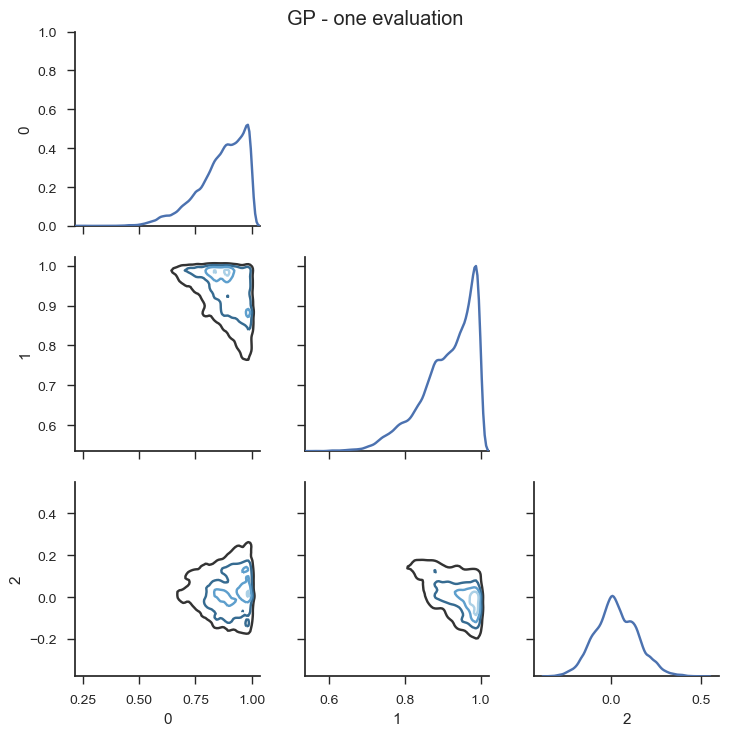
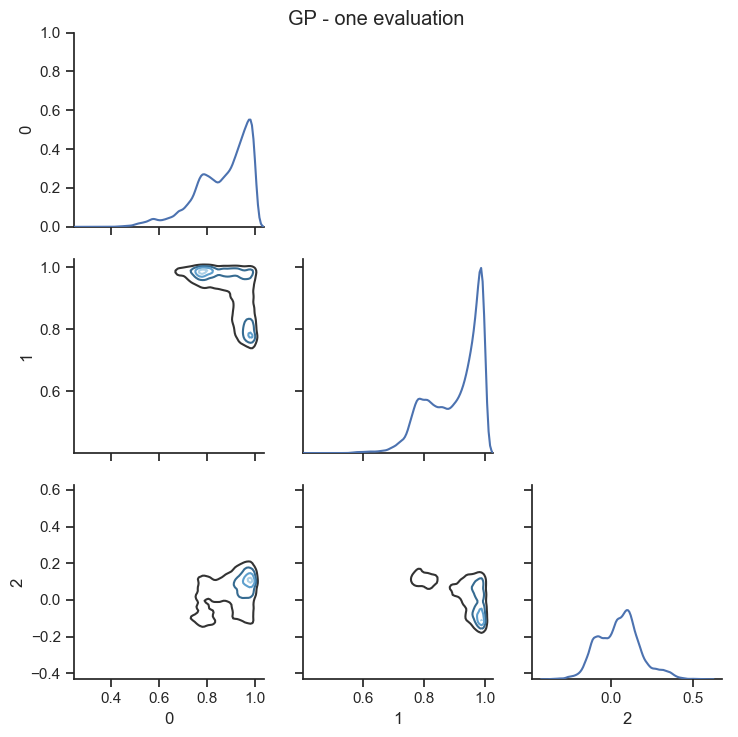
Added in marginal approximation for both MCMC_A.py and MCMC_CGSSZ.py  - updated GaussianProcess to make this possible  - updated README.md with results run times  - updated all output/*.png

diff --git a/GaussianProcess.py b/GaussianProcess.py
@@ -90,8 +90,9 @@ class GaussianProcess:
 
     def GP_at_points(self, points, num_evals=1):
         """Returns a Gaussian Process evalued at the grid points"""
-        val = np.random.multivariate_normal(self.mean(points), self.kernel(points, points),
-                                             num_evals)
+        mean = self.mean(points)
+        kernel = self.kernel(points, points)
+        val = np.random.multivariate_normal(mean, kernel, num_evals)
         if num_evals > 1:
             val = val.T
         return val
@@ -149,13 +150,22 @@ class GaussianProcess:
         plt.plot(X, Y)
         plt.show()
     
-    def GP_eval(self, x):
+    def GP_eval(self, x, save=True, num_evals=1):
+        """
+        Evaluates the GP at the point x and saves this point to the list of generated points.
+        If save=False and num_evals>1 then returns num_evals of GP at x and doesn't save any of them.
+        These options are used for the marginal approximation.
+        """
         #first check lengeth of array X and Y and expand if necessary
         self.check_mem()
         
         #make sure shape of x is (1, dim)
         if len(x.shape) == 1:
             x = x.reshape(1, self.dim)
+        
+        #Haven't removed save=True variable to make developer explicitly aware of this behaviour
+        if save is True and num_evals is not 1:
+            raise ValueError('When save=True then num_evals must be 1.')
         
         """First find closest 3*d points to x
         Code is good in 1d but bad in n dim
@@ -177,11 +187,11 @@ class GaussianProcess:
         elif dist[ind_min_dist] < self.tol:
             data_new = self.Y[ind_min_dist]
         else:
-            data_new = self.GP_bridge(x, points, data)
-            self.add_data(ind, x, data_new)
-
+            data_new = self.GP_bridge(x, points, data, size=num_evals)
+            if save is True:
+                self.add_data(ind, x, data_new)
         return data_new
-    
+      
     def find_closest(self, x):
         """Finds closest 3*dim points to x in each signed direction
         Returns: ind, points
@@ -279,15 +289,13 @@ class GaussianProcess:
             self.X = np.concatenate((self.X, np.zeros(self.X.shape, dtype=self.X.dtype)))
             self.Y = np.concatenate((self.Y, np.zeros(self.Y.shape, dtype=self.Y.dtype)))
     
-    def GP_bridge(self, x, points, data):
+    def GP_bridge(self, x, points, data, size=1):
         """Uses a small Gaussian process to evaluate the GP at x given it at points
         
         x: point to calculate the GP at
         Points: np array (x0, x1, ...)
-        Data: np array (f(x0), f(x1), ...)"""
-        
-#        if len(x.shape) == 1:
-#            x = x[np.newaxis, :]
+        Data: np array (f(x0), f(x1), ...)
+        size: the number of evaluations to return"""
         
         mean, ker = self.create_matern(data = data, points = points)
 
@@ -296,9 +304,11 @@ class GaussianProcess:
         all_pts = np.concatenate((x, points))
         m = np.squeeze(mean(all_pts))
         k = ker(all_pts, all_pts)
-        val = np.random.multivariate_normal(m, k, check_valid='ignore')
-        return val[0]
-
+        val = np.random.multivariate_normal(m, k, size, check_valid='ignore')
+        if size == 1:
+            return val[0,0]
+        else:
+            return val[:,0]
 
     @staticmethod
     def create_uniform_grid(min_range, max_range, n, dim=1):

diff --git a/MCMC_A.py b/MCMC_A.py
@@ -49,7 +49,7 @@ sigma = np.sqrt(10 ** -2) #size of the noise in observations
 dim_U = 3
 length = 10 ** 5 #length of MCMC
 burn_time = 1000
-num_design_points = 17 #in each dimension
+num_design_points = 10 #in each dimension
 speed_random_walk = 0.1
 #End points of n-dim lattice for the design points
 min_range = -1
@@ -59,7 +59,7 @@ num_obs = 20
 x = np.arange(1, num_obs+1)/(num_obs + 1)
 
 #N: number basis functions for solving PDE
-N = 2 ** 7
+N = 2 ** 10
 
 #Generate data
 #The truth u_dagger lives in [-1,1]
@@ -85,26 +85,34 @@ flag_run_MCMC = 1
 if flag_run_MCMC:
     x0 = np.zeros(dim_U)
     print('Parameter is:', u_dagger)
-    print('Solution to PDE at', x, 'for true parameter is:')
-    print(G_u_dagger)
-    print('Observation of solution to PDE at', x, 'is:')
-    print(y)
+    print('Solution to PDE at', x, 'for true parameter is: \n', G_u_dagger)
+    print('Observation of solution to PDE at', x, 'is: \n', y)
     
-    if 1:
+    if 0:
         density_post = lambda u: np.exp(-phi(u))*density_prior(u)
         name = 'True posterior'
         short_name = 'true'
         run_true = MCMC_helper(density_post, name, short_name)
         save_data(run_true, short_name)
     
-    if 1:
+    if 0:
         density_post = lambda u: np.exp(-GP.mean(u))*density_prior(u)
-        name = 'GP as mean - ie marginal approximation'
+        name = 'GP as mean'
         short_name = 'mean'
         run_mean = MCMC_helper(density_post, name, short_name)
         save_data(run_mean, short_name)
-        
+    
     if 1:
+        #estimate each point of GP as expectation of 100 GP evaluations 
+        #(could increase num_expect affecting runtime)
+        num_expect=100
+        density_post = lambda u: np.sum(np.exp(-GP.GP_eval(u,save=False,num_evals=num_expect))*density_prior(u))/num_expect
+        name = 'GP as marginal approximation'
+        short_name = 'marginal'
+        run_marg = MCMC_helper(density_post, name, short_name)
+        save_data(run_marg, short_name)
+        
+    if 0:
         density_post = lambda u: np.exp(-GP.GP_eval(u))*density_prior(u)
         name = 'GP - one evaluation'
         short_name = 'GP'

diff --git a/MCMC_CGSSZ.py b/MCMC_CGSSZ.py
@@ -44,13 +44,13 @@ sigma = np.sqrt(10 ** -3) #size of the noise in observations
 dim_k = 3
 length = 10 ** 5 #length of MCMC
 burn_time = 3000
-num_design_points = 20 #in each dimension
+num_design_points = 10 #in each dimension
 speed_random_walk = 0.05
 num_obs = 9
 #num_obs evenly spaced points in (0,1)
 x = np.arange(1, num_obs + 1)/(num_obs + 1)
 #N: number basis functions for solving PDE
-N = 2 ** 7
+N = 2 ** 10
 
 #Generate data
 #The truth k_dagger
@@ -94,10 +94,20 @@ if flag_run_MCMC:
     
     if 1:
         density_post = lambda u: np.exp(-GP.mean(u))*density_prior(u)
-        name = 'GP as mean - ie marginal approximation'
+        name = 'GP as mean'
         short_name = 'mean'
         run_mean = MCMC_helper(density_post, name, short_name)
         save_data(run_mean, short_name)
+        
+    if 1:
+        #estimate each point of GP as expectation of 100 GP evaluations 
+        #(could increase num_expect affecting runtime)
+        num_expect=100
+        density_post = lambda u: np.sum(np.exp(-GP.GP_eval(u,save=False,num_evals=num_expect))*density_prior(u))/num_expect
+        name = 'GP as marginal approximation'
+        short_name = 'marginal'
+        run_marg = MCMC_helper(density_post, name, short_name)
+        save_data(run_marg, short_name)
         
     if 1:
         density_post = lambda u: np.exp(-GP.GP_eval(u))*density_prior(u)

diff --git a/MCMC.py b/MCMC.py
@@ -65,8 +65,7 @@ def runMCMC(dens, length, speed_random_walk, x0, x, N, name, short_name,
     print('Mean is:', mean)
     print('We accepted this number of times:', accepts)
     sol_at_mean = PDE.solve_at_x(mean, N, x)
-    print('Solution to PDE at mean is:')
-    print(sol_at_mean)
+    print('Solution to PDE at mean is: \n', sol_at_mean)
     
     print('Average error from true values is:', np.sqrt(np.sum((sol_at_mean - sol_true)**2))/len(x))
     print('Average error from observed values is:', np.sqrt(np.sum((sol_at_mean - sol_obs)**2))/len(x))

diff --git a/README.md b/README.md
@@ -1,22 +1,46 @@
-This code contains an example of using a Gaussian Process Approximation in Bayesian inverse problems.
-In particular we use the Gaussian Process Emulator during a simple MCMC estimating the solution to a PDE.
+This code contains an example of using a Gaussian Process Approximation in Bayesian inverse problems.  In particular we use the Gaussian Process Emulator during a simple MCMC estimating the solution to a PDE.
 
 We look at two different examples.
 
 The first example, `MCMC_A.py` is from section 5 of this [paper](http://dx.doi.org/10.1090/mcom/3244) (also available on [arXiv](https://arxiv.org/abs/1603.02004)).
 
-The second example, `MCMC_CGSSZ.py` is using applying a Gaussian Process Approximator to the problem from section 5 of this [paper](https://doi.org/10.1007/s11222-016-9671-0).
-Here they have instead used a randomised PDE solver using random basis function for their FEM.
+The second example, `MCMC_CGSSZ.py` is using applying a Gaussian Process Approximator to the problem from section 5 of this [paper](https://doi.org/10.1007/s11222-016-9671-0).  Here they have instead used a randomised PDE solver using random basis function for their FEM.
 We randomise differently using a Gaussian process approximator.
 
-Note because the code currently has a naive way of searching spatial data it runs in `O(n^3)`, where `n` is length of MCMC run.
-Using an R* Tree (or another data structure) should reduce this down to `O(n*log(n))`.
+Note because the code currently has a naive way of searching spatial data it runs in `O(n^3)`, where `n` is number of steps in the MCMC run.
+Using an R* Tree (or another tree type data structure) should reduce this down to `O(n*log(n))`.
+
+### Results ###
+
+The results for both of these examples are in the `output` folder.
+
+#### Computational time ####
+
+All these computational time calculations were run on a Intel i5-6300HQ (4 core) CPU with 8GB RAM.
+
+For `MCMC_A.py` with 100,000 length MCMC run, 3 dimensional parameter family, 1000 design points in total, using 1024 basis functions to solve the PDE and 20 observations we have:
+
+Approximation | Time (mm:ss) 
+ ---- | ---- 
+True posterior (solving the PDE) | 4:09
+GP as mean | 0:07 
+GP as marginal approximation | 1:18 
+GP as random appoximation (one evaluation only) | 8:18
+
+For `MCMC_CGSSZ.py` with 100,000 length MCMC run, 3 dimensional parameter family, 1000 design points in total, using 1024 basis functions to solve the PDE and 9 observations we have:
+
+Approximation | Time (mm:ss) 
+ ---- | ---- 
+True posterior (solving the PDE) | 4:35
+GP as mean | 0:34 
+GP as marginal approximation | 1:54 
+GP as random appoximation (one evaluation only) | 7:09
 
 ### How do I get set up? ###
 
 Required dependencies:
 
-	numpy, scipy, matplotlib
+	numpy, scipy, matplotlib, seaborn, pandas
 
 Optional dependencies:
 
@@ -34,6 +58,4 @@ Simply run `python MCMC_A.py` or `python MCMC_CGSSZ.py`
 See the above file for different plotting and posterior distribution options.
 
 ### Testing ####
-The tests are contained in `test_GaussianProcess.py`.
-Since we're dealing with randomness most of the tests are graphical.
-Simply uncomment the required tests at the bottom of the file.
+The tests are contained in `test_GaussianProcess.py`.  Since we're dealing with randomness most of the tests are graphical.  Simply uncomment the required tests at the bottom of the file.
